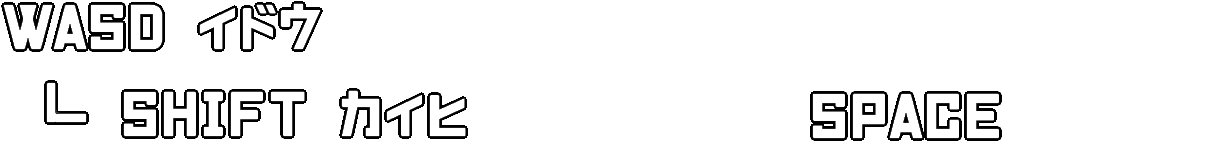
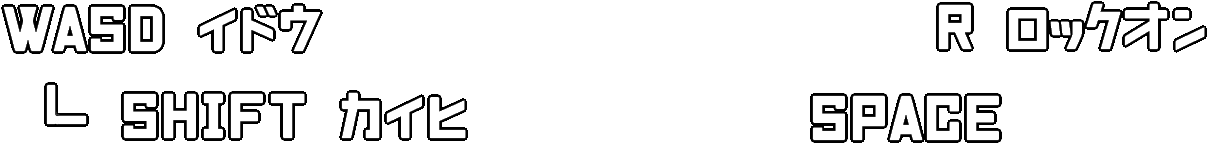
ロックオン追加

diff --git a/application/Player/Player.cpp b/application/Player/Player.cpp
@@ -92,6 +92,9 @@ void Player::Update()
 				hitEffect_->SetPosition(BaseObject::GetWorldPosition());
 				Move();
 				UpdateAttack();
+
+				// ロックオン処理
+				UpdateLockOn();
 			}
 		}
 
@@ -124,6 +127,54 @@ void Player::Update()
 	hitEffect_->Update(*vp_);
 	damageEffect_->Update(*vp_);
 #endif // _DEBUG
+}
+
+void Player::UpdateLockOn()
+{
+	// Rキーでロックオン切り替え
+	if (Input::GetInstance()->TriggerKey(DIK_R)) {
+		isLockOn_ = !isLockOn_;
+	}
+
+	// ロックオンが有効で敵が存在する場合
+	if (isLockOn_ && enemy_ != nullptr) {
+		Vector3 playerPos = GetCenterPosition();
+		Vector3 enemyPos = enemy_->GetCenterPosition();
+
+		// 敵への方向を計算
+		Vector3 direction = enemyPos - playerPos;
+
+		// 距離が十分ある場合のみ回転処理
+		// 正規化された方向ベクトルを取得
+		Vector3 normalizedDirection = direction.Normalize();
+
+		// 敵の方向を向く(Y軸回転を計算)
+		float targetRotationY = std::atan2(normalizedDirection.x, normalizedDirection.z);
+
+		// 現在の回転を取得
+		Vector3 currentRotation = GetCenterRotation();
+		float currentRotationY = currentRotation.y;
+
+		// 角度差を計算し、最短経路で回転するよう正規化
+		float angleDiff = targetRotationY - currentRotationY;
+
+		// 角度を-π~πの範囲に正規化(最短経路での回転)
+		const float PI = 3.14159265359f;
+		while (angleDiff > PI) {
+			angleDiff -= 2.0f * PI;
+		}
+		while (angleDiff < -PI) {
+			angleDiff += 2.0f * PI;
+		}
+
+		// 新しい回転角度を線形補間で計算
+		float lerpFactor = 0.2f; // 補間係数(回転速度)
+		float newRotationY = currentRotationY + angleDiff * lerpFactor;
+
+		// 回転を設定
+		BaseObject::SetRotation(Vector3(currentRotation.x, newRotationY, currentRotation.z));
+
+	}
 }
 
 void Player::UpdateGameOverEffect()
@@ -465,6 +516,10 @@ void Player::ImGui()
 		behavior_ == Behavior::kRoot ? "Root" :
 		behavior_ == Behavior::kAttack ? "Attack" :
 		behavior_ == Behavior::kDodge ? "Dodge" : "Unknown");
+
+	// ロックオン情報
+	ImGui::Separator();
+	ImGui::Text("Lock-On: %s", isLockOn_ ? "ON" : "OFF");
 
 	// 被弾リアクション情報
 	ImGui::Separator();

diff --git a/application/Player/Player.h b/application/Player/Player.h
@@ -9,6 +9,7 @@
 #include <ParticleEmitter.h>
 
 class FollowCamera;
+class Enemy;
 
 class Player : public BaseObject
 {
@@ -107,6 +108,7 @@ public:
 	void SetTranslation(const Vector3& translation) { transform_.translation_ = translation; }
 	void SetVelocity(const Vector3& velocity) { velocity_ = velocity; }
 	void SetGameState(GameState state) { gameState_ = state; }
+	void SetEnemy(Enemy* enemy) { enemy_ = enemy; }
 
 private:
 
@@ -119,6 +121,11 @@ private:
 	/// 移動
 	/// </summary>
 	void Move();
+
+	/// <summary>
+	/// ロックオン処理
+	/// </summary>
+	void UpdateLockOn();
 
 	/// <summary>
 	/// 回避処理
@@ -200,6 +207,10 @@ private:
 	Vector3 originalPosition_{};
 	static constexpr int kHitReactionDuration_ = 15;
 	static constexpr float kHitShakeIntensity_ = 0.15f;
+
+	// ロックオン関連変数
+	bool isLockOn_ = false;
+	Enemy* enemy_ = nullptr;
 
 	// --- 各エフェクト・演出 ---
 	std::unique_ptr<ParticleEmitter> hitEffect_;

diff --git a/scene/GameScene.cpp b/scene/GameScene.cpp
@@ -39,6 +39,8 @@ void GameScene::Initialize()
 	enemy_->Init();
 	enemy_->SetGameState(Enemy::GameState::kPlaying);
 
+	player_->SetEnemy(enemy_.get());
+
 	// --- ステージ ---
 	skybox_ = std::make_unique<Skybox>();
 	skybox_->Initialize("skybox.dds");
@@ -321,6 +323,13 @@ void GameScene::ChangeScene()
 	if (player_->GetGameState() == Player::GameState::kGameOver) {
 		sceneManager_->NextSceneReservation("OVER");
 	}
+
+
+	//-----------------------------
+	if (Input::GetInstance()->TriggerKey(DIK_R)) {
+		
+	}
+	//-----------------------------
 
 #ifdef _DEBUG
 #endif // _DEBUG
